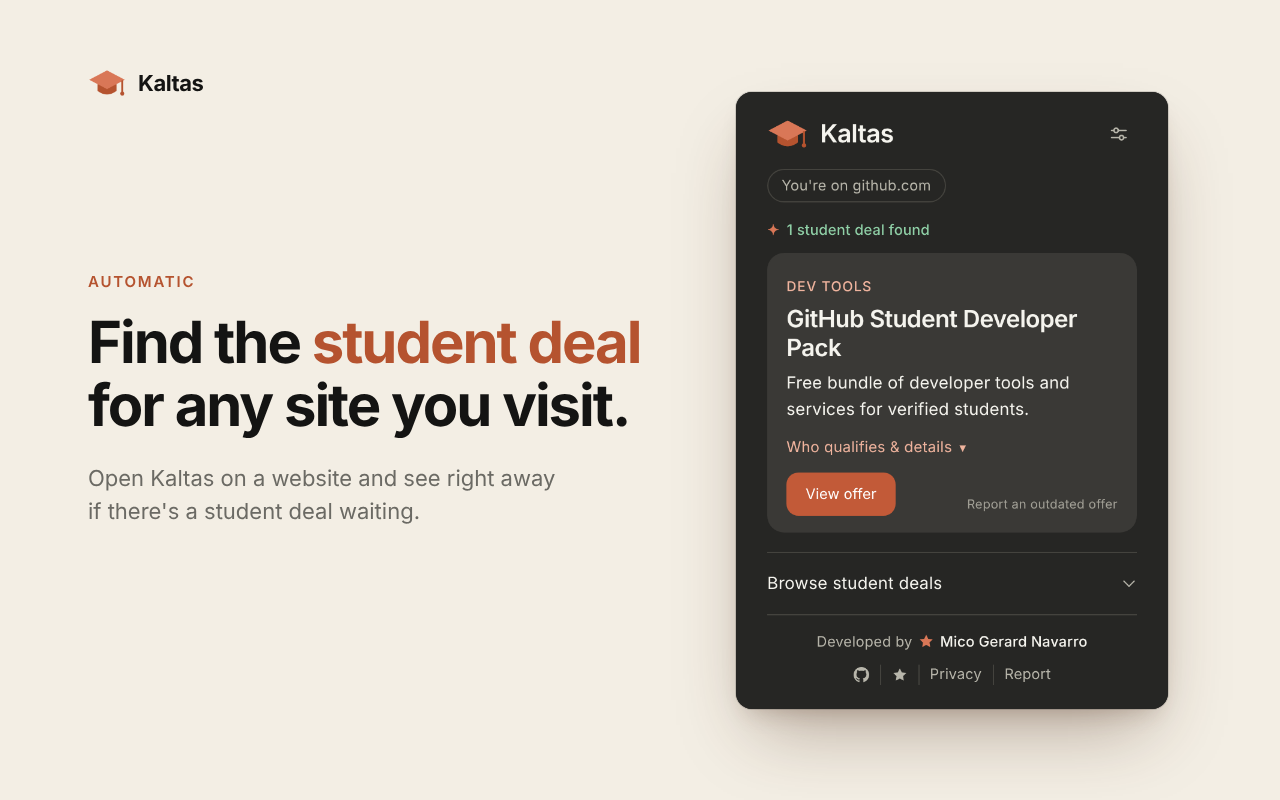
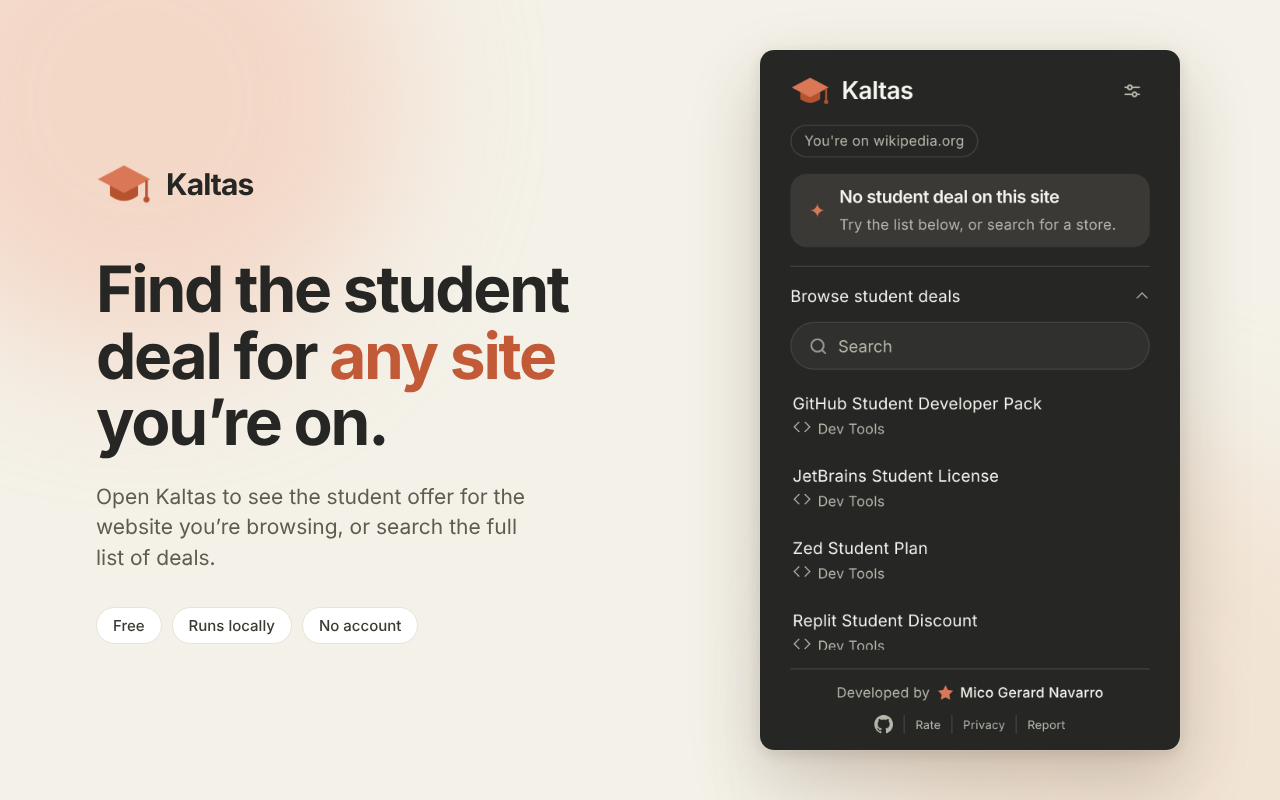
feat: update kaltas screenshot

diff --git a/index.html b/index.html
@@ -45,7 +45,7 @@
       <article class="item reveal">
         <div class="frame  carousel" role="group" aria-roledescription="carousel" aria-label="Kaltas screenshots">
 <div class="slides" tabindex="0" aria-label="Kaltas screenshots. Use the left and right arrow keys to browse.">
-<div class="slide"><img src="/images/projects/kaltas-1.png" width="1280" height="800" alt="Kaltas popup showing a student deal for the website being visited."></div>
+<div class="slide"><img src="/images/projects/kaltas-1.png" width="1280" height="800" alt="Kaltas popup on a site with no student deal, with the Browse student deals list open."></div>
 <div class="slide"><img src="/images/projects/kaltas-2.png" width="1280" height="800" loading="lazy" alt="Kaltas popup with the details and who qualifies for a student deal."></div>
 <div class="slide"><img src="/images/projects/kaltas-3.png" width="1280" height="800" loading="lazy" alt="Kaltas popup listing every student deal."></div>
 <div class="slide"><img src="/images/projects/kaltas-4.png" width="1280" height="800" loading="lazy" alt="Kaltas popup search filtering student deals by category."></div>
